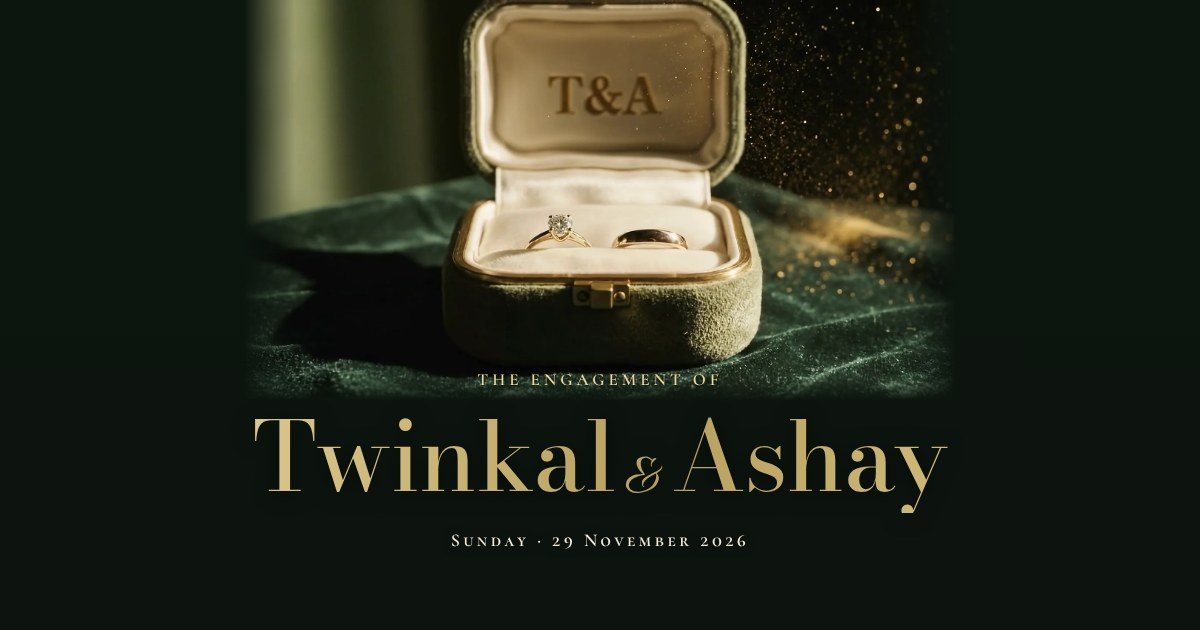
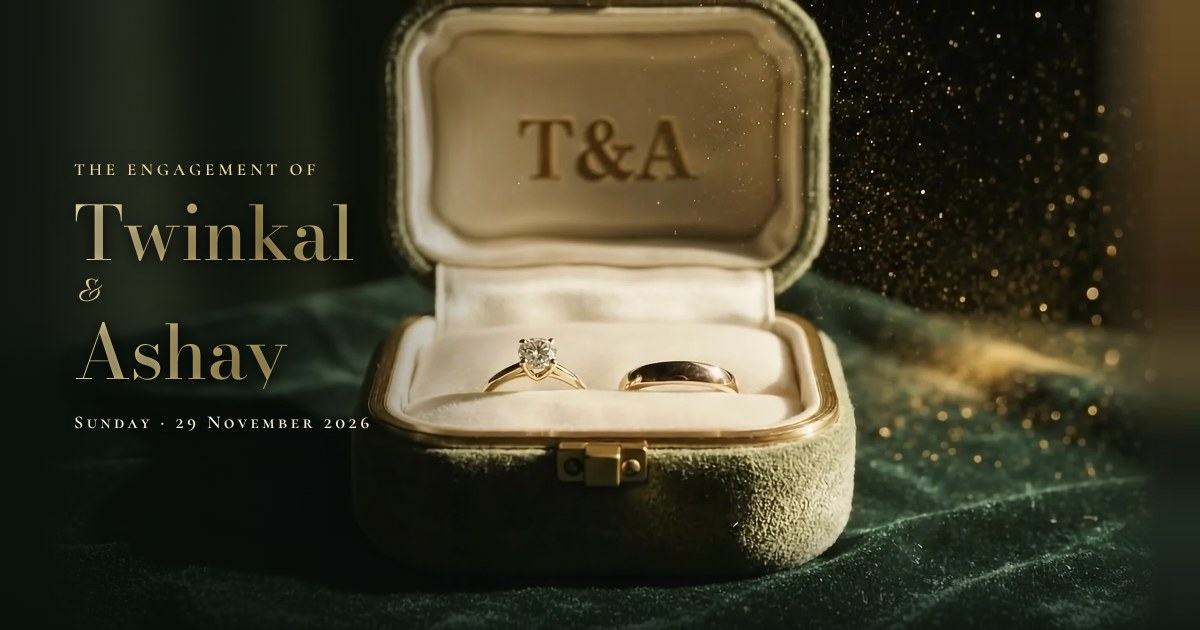
Film never shrinks; names beside the box on wide screens; solid countdown
Wide screens keep the film full height to the end and set the names in a
column on the soft wall left of the box; phones and portrait tablets keep the
film still near the top, words below, the velvet room fully blurred around
it. Countdown digits use Bodoni's sturdy cut with fixed-width figures, and
tick with the screen's frames so seconds land on time while scrolling.

Claude-Session: https://claude.ai/code/session_01V483XrH9DwYK8njAU3piiR

diff --git a/index.html b/index.html
@@ -61,83 +61,84 @@
   .chip svg { width: 16px; height: 16px; }
 
   /* ---------- ring box film ---------- */
-  /* The film sits at the top and the words sit below it, so nothing ever covers the rings. While it plays it
-     has the screen to itself; around it is a deep velvet-green that matches the film's own shadows.
-     Wide screens get the 16:9 cut; phones and portrait tablets get the square cut (see the media query). */
-  .scene { --poster: url(assets/film-wide-poster.webp); --room: #0d150f;
-    --top: 0px; --fh: min(56.25vw, calc(100svh - 230px)); --fw: calc(var(--fh) * 16 / 9);
-    position: relative; height: 100svh; min-height: 560px; overflow: hidden; background: #111a12; }
-  .ambient, .ambient::after { position: absolute; inset: 0; pointer-events: none; }
-  .ambient { background: radial-gradient(90% 70% at 50% 40%, #16211a 0%, var(--room) 70%); }
-  /* deepen the lower half so the gold words always read clearly */
-  .ambient::after { content: ""; background: linear-gradient(to bottom, rgba(12, 19, 14, .05) 0, rgba(12, 19, 14, .35) calc(var(--top) + var(--fh) * .8), rgba(12, 19, 14, .78) 100%); }
+  /* Wide screens (laptops, tablets on their side): the film fills the screen's height from first sight to the
+     end and never shrinks. On its last frame a soft shade rises over the velvet below the box and the names
+     appear there. Phones and portrait tablets: the square cut stays still near the top with the words below
+     it (see the media query). Around the film, wherever the screen is wider or taller than it, the velvet
+     room it was shot in shows, fully blurred. */
+  .scene { --poster: url(assets/film-wide-poster.webp); --room: #0d150f; --h: max(100svh, 560px); --fw: calc(var(--h) * 16 / 9);
+    position: relative; height: var(--h); overflow: hidden; background: var(--room); }
+  .ambient { position: absolute; inset: 0; pointer-events: none; background: var(--room) url(assets/bg-wide-blur.webp) center / cover no-repeat; }
   .scene .film, .scene .final {
-    position: absolute; top: var(--top); left: 50%; width: var(--fw); height: var(--fh); transform: translateX(-50%);
+    position: absolute; top: 0; left: 50%; height: 100%; width: var(--fw); transform: translateX(-50%);
     display: block; object-fit: cover; touch-action: pan-y; -webkit-tap-highlight-color: transparent;
   }
-  /* Softens the film's edges into the glow. It is a still layer laid over the film rather than a mask on the
-     video, because masking a moving video costs frames; it fades in as the film settles into its frame. */
-  .veil { position: absolute; inset: 0; pointer-events: none; opacity: 1; transition: opacity 1.5s ease;
-    background: linear-gradient(to bottom, rgba(12, 19, 14, .05) 0, rgba(12, 19, 14, .35) calc(var(--top) + var(--fh) * .8), rgba(12, 19, 14, .78) 100%), var(--room);
-    -webkit-mask-image: linear-gradient(to bottom, transparent calc(var(--top) + var(--fh) * .945), #000 calc(var(--top) + var(--fh))),
-      linear-gradient(to right, #000 calc(50% - var(--fw) / 2), transparent calc(50% - var(--fw) * .43), transparent calc(50% + var(--fw) * .43), #000 calc(50% + var(--fw) / 2));
-            mask-image: linear-gradient(to bottom, transparent calc(var(--top) + var(--fh) * .945), #000 calc(var(--top) + var(--fh))),
-      linear-gradient(to right, #000 calc(50% - var(--fw) / 2), transparent calc(50% - var(--fw) * .43), transparent calc(50% + var(--fw) * .43), #000 calc(50% + var(--fw) / 2)); }
-  .scene.full .veil { opacity: 0; }
-  .veil-full { position: absolute; inset: 0; pointer-events: none; opacity: 0; transition: opacity 1.5s ease;
-    background: var(--room);
-    -webkit-mask-image: linear-gradient(to right, #000 calc(50% - var(--full-w, 100vw) / 2), transparent calc(50% - var(--full-w, 100vw) * .44), transparent calc(50% + var(--full-w, 100vw) * .44), #000 calc(50% + var(--full-w, 100vw) / 2));
-            mask-image: linear-gradient(to right, #000 calc(50% - var(--full-w, 100vw) / 2), transparent calc(50% - var(--full-w, 100vw) * .44), transparent calc(50% + var(--full-w, 100vw) * .44), #000 calc(50% + var(--full-w, 100vw) / 2)); }
-  .scene.full .veil-full { opacity: 1; transition: none; }
   .scene .film { background: var(--poster) center / cover no-repeat; }
-  /* wide screens: the film fills the screen's height while it plays (scale and offset set by fitFull),
-     then glides back into its frame above the names once it ends */
-  .scene .final { transition: opacity .8s ease; }
-  /* only the settling move animates; the film starts full-screen without any zoom on load */
-  .scene.settle .film, .scene.settle .final { transition: transform 1.5s cubic-bezier(.6, 0, .25, 1), opacity .8s ease; }
-  .scene.full .film, .scene.full .final { transform: translate(-50%, var(--full-y, 0px)) scale(var(--full-s, 1)); }
-  @media (min-aspect-ratio: 801/1000) {
-    .scene .scroll-cue { display: none; }   /* the hint says it; the icon would sit under the RSVP bar */
-    .scene.full .scene-ui { top: calc(env(safe-area-inset-top) + 8svh); bottom: auto; text-shadow: 0 1px 12px rgba(0, 0, 0, .6); }
-  }
-  .scene .final { opacity: 0; pointer-events: none; }
+  .scene .final { opacity: 0; pointer-events: none; transition: opacity .8s ease; }
   .show-final .scene .final { opacity: 1; }
+  /* on screens wider than the film, its sides melt into the blurred room: a still layer over the film's edges,
+     not a mask on the video, because masking a moving video costs frames */
+  .edges { position: absolute; inset: 0; pointer-events: none;
+    background: var(--room) url(assets/bg-wide-blur.webp) center / cover no-repeat;
+    -webkit-mask-image: linear-gradient(to right, #000 calc(50% - var(--fw) / 2), transparent calc(50% - var(--fw) * .44), transparent calc(50% + var(--fw) * .44), #000 calc(50% + var(--fw) / 2));
+            mask-image: linear-gradient(to right, #000 calc(50% - var(--fw) / 2), transparent calc(50% - var(--fw) * .44), transparent calc(50% + var(--fw) * .44), #000 calc(50% + var(--fw) / 2)); }
+  /* the shade the names rise on: only over the velvet below the box, faded in with them */
+  .shade { position: absolute; inset: 0; pointer-events: none; opacity: 0; transition: opacity 1.4s ease;
+    background: linear-gradient(to top, rgba(9, 15, 11, .94) 0%, rgba(9, 15, 11, .8) 18%, rgba(9, 15, 11, .35) 30%, rgba(9, 15, 11, 0) 40%); }
+  .named .shade { opacity: 1; }
   /* only shown if a guest taps before the film has arrived on a slow connection */
-  .loader { position: absolute; left: 0; right: 0; top: var(--top); height: var(--fh); display: grid; place-items: center; color: var(--gold-bright); font-family: var(--script); font-size: 30px; transition: opacity .6s; pointer-events: none; opacity: 0; }
+  .loader { position: absolute; inset: 0; display: grid; place-items: center; color: var(--gold-bright); font-family: var(--script); font-size: 30px; transition: opacity .6s; pointer-events: none; opacity: 0; }
   .buffering .loader { opacity: 1; }
   .loader span { animation: breathe 1.8s ease-in-out infinite; }
   @keyframes breathe { 50% { opacity: .35; } }
 
+  /* the words: "Tap to open" above the closed box, the names on the shade below the open box */
   .scene-ui { position: absolute; left: 0; right: 0; z-index: 2; text-align: center; padding: 0 20px; color: #f6efdc;
-    top: calc(var(--top) + var(--fh) * .93); bottom: calc(max(20px, env(safe-area-inset-bottom)) + 62px);
-    display: grid; align-content: center; justify-items: center; }
+    top: calc(env(safe-area-inset-top) + 7svh); bottom: calc(max(16px, env(safe-area-inset-bottom)) + 66px);
+    display: grid; grid-template-rows: 1fr; justify-items: center; text-shadow: 0 1px 12px rgba(0, 0, 0, .55); }
   .pre, .post { grid-area: 1 / 1; width: 100%; transition: opacity .9s ease, transform .9s ease; }
-  .post { opacity: 0; transform: translateY(16px); pointer-events: none; }
+  .pre { align-self: start; }
+  .post { align-self: end; opacity: 0; transform: translateY(16px); pointer-events: none; }
   .opened .pre { opacity: 0; transform: translateY(-10px); pointer-events: none; }
   .named .post { opacity: 1; transform: none; pointer-events: auto; transition-duration: 1.4s; }
+  /* on wide screens the bar invites the scroll, so the hint and icon step aside to keep the box clear */
+  .scene .hint, .scene .scroll-cue { display: none; }
+  /* wide screens: the box fills the frame's height at the end, so the names sit beside it, in a column on the
+     soft wall to its left, stacked like a card; the shade darkens only that side and the strip under the bar */
+  @media (min-aspect-ratio: 801/1000) {
+    .shade { background: linear-gradient(to right, rgba(9, 15, 11, .9) 0%, rgba(9, 15, 11, .72) 20%, rgba(9, 15, 11, .3) 32%, rgba(9, 15, 11, 0) 44%),
+      linear-gradient(to top, rgba(9, 15, 11, .75) 0, rgba(9, 15, 11, 0) 16%); }
+    .post { align-self: center; justify-self: start; width: min(28vw, 460px); margin-left: 4.5vw; text-align: left; }
+    .post .hero-names span, .post .hero-names em { display: block; }
+    .post .hero-names { font-size: clamp(52px, 6.2vw, 104px); line-height: 1; }
+    .post .hero-names em { font-size: .5em; padding: .12em 0 .08em .1em; }
+    .post .hero-date { margin-top: 22px; }
+  }
+  /* narrower wide screens (iPad on its side, 16:10 laptops): the box reaches further left, so a slimmer column */
+  @media (min-aspect-ratio: 801/1000) and (max-aspect-ratio: 16/10) {
+    .post { width: 23vw; margin-left: 3vw; }
+    .post .hero-names { font-size: clamp(40px, 5vw, 72px); }
+    .post .kicker { letter-spacing: 2.5px; font-size: 14px; }
+    .post .hero-date { letter-spacing: 2px; font-size: 14px; }
+  }
 
   @media (max-aspect-ratio: 4/5) {
-    .scene { --poster: url(assets/film-square-poster.webp);
-      --top: calc(env(safe-area-inset-top) + 40px);
-      --fh: min(100vw, 60svh); --fw: var(--fh); }
-    .veil, .veil-full { display: none; }
-    /* while centred, a softer top edge melts the lit wall at the top of the frame into the dark */
-    .scene.full .film, .scene.full .final {
-      -webkit-mask-image: linear-gradient(to bottom, transparent 0, #000 10%, #000 95%, transparent 100%);
-              mask-image: linear-gradient(to bottom, transparent 0, #000 10%, #000 95%, transparent 100%);
-    }
-    /* while centred, a softer top edge melts the lit wall at the top of the frame into the dark */
-    .scene.full .film, .scene.full .final {
-      -webkit-mask-image: linear-gradient(to bottom, transparent 0, #000 10%, #000 95%, transparent 100%);
-              mask-image: linear-gradient(to bottom, transparent 0, #000 10%, #000 95%, transparent 100%);
-    }
-    /* the glide to the centre fits inside the pause after the tap */
-    .scene.settle .film, .scene.settle .final { transition: transform 1.1s cubic-bezier(.6, 0, .25, 1), opacity .8s ease; }
-    /* phones: the square spans the width, so only its top and bottom melt away */
-    .scene .film, .scene .final {
+    /* phones: the film stays in one place from first sight to the names (nothing moves on the tap), with the
+       words below it and the velvet room, fully blurred, filling the screen around it */
+    .scene { --poster: url(assets/film-square-poster.webp); --fh: min(100vw, 60svh);
+      --top: max(calc(env(safe-area-inset-top) + 40px), calc((100svh - var(--fh) - 300px) / 2)); }
+    .ambient { background-image: url(assets/bg-tall-blur.webp); }
+    .edges, .shade { display: none; }
+    /* the square spans the width, so only its top and bottom melt away, short of the lid and the base */
+    .scene .film, .scene .final { top: var(--top); height: var(--fh); width: var(--fh);
       -webkit-mask-image: linear-gradient(to bottom, transparent 0, #000 3%, #000 95%, transparent 100%);
               mask-image: linear-gradient(to bottom, transparent 0, #000 3%, #000 95%, transparent 100%);
     }
+    .loader { inset: var(--top) 0 auto; height: var(--fh); }
+    .scene-ui { top: calc(var(--top) + var(--fh) * .97); text-shadow: none; }
+    .pre, .post { align-self: center; }
+    .scene .hint, .scene .scroll-cue { display: block; }
+    .scene .scroll-cue { display: inline-block; }
   }
   /* portrait tablets: the square no longer spans the width, so melt its sides too */
   @media (max-aspect-ratio: 4/5) and (min-aspect-ratio: 3/5) {
@@ -236,10 +237,12 @@
   .forest .lead { color: #e7decb; }
 
   /* countdown */
-  .cd { display: flex; justify-content: center; gap: clamp(8px, 3vw, 18px); margin-top: 28px; }
-  .cd .u { width: clamp(68px, 19vw, 104px); padding: 16px 0 12px; border-radius: 14px; background: #fffefb; box-shadow: 0 0 0 1px rgba(171, 158, 104, .3), 0 18px 30px -20px rgba(40, 60, 45, .5); }
-  .cd b { display: block; font-family: "Bodoni Moda", "Noto Serif Gujarati", serif; font-weight: 400; font-size: clamp(30px, 8.5vw, 48px); line-height: 1; color: var(--gold-deep); font-variant-numeric: tabular-nums; }
-  .cd span { display: block; margin-top: 8px; font-family: var(--caps); font-weight: 600; letter-spacing: 2px; font-size: 13px; color: var(--ink-soft); }
+  .cd { display: flex; justify-content: center; gap: clamp(6px, 2.4vw, 16px); margin-top: 28px; }
+  .cd .u { width: clamp(76px, 21.5vw, 112px); padding: 16px 0 12px; border-radius: 14px; background: #fffefb; box-shadow: 0 0 0 1px rgba(171, 158, 104, .3), 0 18px 30px -20px rgba(40, 60, 45, .5); }
+  /* Bodoni's sturdiest cut, fixed-width figures so the boxes never shift as the seconds change */
+  .cd b { display: block; font-family: "Bodoni Moda", "Noto Serif Gujarati", serif; font-weight: 500; font-variation-settings: "opsz" 6;
+    font-size: clamp(32px, 9vw, 50px); line-height: 1; color: var(--gold-deep); font-variant-numeric: lining-nums tabular-nums; }
+  .cd span { display: block; margin-top: 9px; font-family: var(--caps); font-weight: 600; letter-spacing: 1.4px; font-size: 12px; color: var(--ink-soft); }
   :lang(gu) .cd span { letter-spacing: .3px; font-size: 13px; }
 
   /* details */
@@ -331,8 +334,8 @@
   <video class="film" id="film" muted playsinline webkit-playsinline preload="auto" disablepictureinpicture disableremoteplayback
          aria-label="A velvet ring box opens to show two engagement rings and a gold T &amp; A on the lid"></video>
   <img class="final" alt="">
-  <div class="veil" aria-hidden="true"></div>
-  <div class="veil-full" aria-hidden="true"></div>
+  <div class="edges" aria-hidden="true"></div>
+  <div class="shade" aria-hidden="true"></div>
   <script>
   // phones get the square cut of the film, wider screens the full 16:9 one; chosen before anything else loads
   (() => {
@@ -607,8 +610,7 @@ optionalImage(CONFIG.photos.groom, document.querySelector("#pGroom img"), () => 
 /* ---------- countdown ---------- */
 const target = new Date(CONFIG.date[0], CONFIG.date[1] - 1, CONFIG.date[2], ...(CONFIG.time ? CONFIG.time.split(":").map(Number) : [0, 0]));
 const cdEls = ["cdD", "cdH", "cdM", "cdS"].map(id => document.getElementById(id));
-let cdTimer;
-function tick(once) {
+function tick() {
   const ms = target - Date.now();
   const title = document.getElementById("cdTitle");
   if (ms <= 0) {
@@ -619,9 +621,18 @@ function tick(once) {
   }
   const s = Math.floor(ms / 1000);
   [Math.floor(s / 86400), Math.floor(s / 3600) % 24, Math.floor(s / 60) % 60, s % 60]
-    .forEach((v, i) => { cdEls[i].textContent = num(String(v).padStart(2, "0")); });
-  if (!once) { clearTimeout(cdTimer); cdTimer = setTimeout(tick, 1000 - (Date.now() % 1000)); }
+    .forEach((v, i) => { const txt = num(String(v).padStart(2, "0")); if (cdEls[i].textContent !== txt) cdEls[i].textContent = txt; });
 }
+// Driven by the screen's own frames while the countdown is on screen (timers get delayed on phones while
+// scrolling, which made seconds stutter); only the digits that changed are touched.
+(() => {
+  let raf = 0, last = -1;
+  const loop = () => { const s = Math.floor((target - Date.now()) / 1000); if (s !== last) { last = s; tick(); } raf = requestAnimationFrame(loop); };
+  new IntersectionObserver(([e]) => {
+    if (e.isIntersecting && !raf) loop();
+    else if (!e.isIntersecting && raf) { cancelAnimationFrame(raf); raf = 0; }
+  }).observe(document.getElementById("cd"));
+})();
 
 /* ---------- calendar, maps, share, rsvp ---------- */
 document.getElementById("calBtn").addEventListener("click", () => {
@@ -673,7 +684,7 @@ addEventListener("scroll", () => { if (document.body.classList.contains("locked"
 const html = document.documentElement;
 const film = document.getElementById("film");
 const finalImg = document.querySelector(".scene .final");
-const HOLD = 1200;   // ms of stillness after the tap, before the lid starts to move (covers the phone glide)
+const HOLD = 1000;   // ms of stillness after the tap, before the lid starts to move
 let opened = false, started = false, filmFailed = false;
 film.addEventListener("error", () => { filmFailed = true; });
 [...film.querySelectorAll("source")].pop().addEventListener("error", () => { filmFailed = true; });
@@ -697,34 +708,17 @@ function begin() {
   document.dispatchEvent(new Event("openbox"));
 }
 
-// The film has the screen to itself while it plays: full-screen on wide screens (from the start), centred and
-// edge to edge on phones. When it ends it moves into its frame and the names rise below it.
-// Every move happens while the film is paused, so none of them costs a frame of playback.
+// The film never moves or shrinks: it plays, holds on its last frame, and the names appear.
 const sceneEl = document.getElementById("scene");
-const WIDE = film.dataset.cut === "wide", STILL = new URLSearchParams(location.search).has("still");
-function fitFull() {
-  const w = film.offsetWidth, h = film.offsetHeight, H = sceneEl.clientHeight;
-  const sc = WIDE ? H / h : 1;   // fill the height, never crop it: the box nearly fills the frame at the end
-  sceneEl.style.setProperty("--full-s", sc.toFixed(4));
-  sceneEl.style.setProperty("--full-w", (w * sc).toFixed(1) + "px");
-  sceneEl.style.setProperty("--full-y", (H / 2 - film.offsetTop - h / 2).toFixed(1) + "px");
-}
-fitFull(); addEventListener("resize", fitFull);
-if (WIDE && !STILL) sceneEl.classList.add("full");
-function zoomOut() {
-  sceneEl.classList.add("settle"); sceneEl.classList.remove("full");
-  setTimeout(reveal, 700);
-}
-function fallBack() { film.pause(); showFinal(); begin(); zoomOut(); }
+function fallBack() { film.pause(); showFinal(); begin(); setTimeout(reveal, 400); }
 film.addEventListener("playing", begin);
-film.addEventListener("ended", () => { showFinal(); zoomOut(); });
+film.addEventListener("ended", () => { showFinal(); setTimeout(reveal, 500); });
 
 function openBox() {
   if (opened) return; opened = true;
   sceneEl.classList.add("opened");
   setMusic(true);
   if (filmFailed) return fallBack();
-  if (!WIDE) sceneEl.classList.add("settle", "full");     // phones: the film glides to the centre of the screen
   // start playback inside the tap (so every phone allows it), hold on the first frame, then let it run
   const go = () => { const q = film.play(); if (q && q.catch) q.catch(fallBack); };
   const p = film.play();
